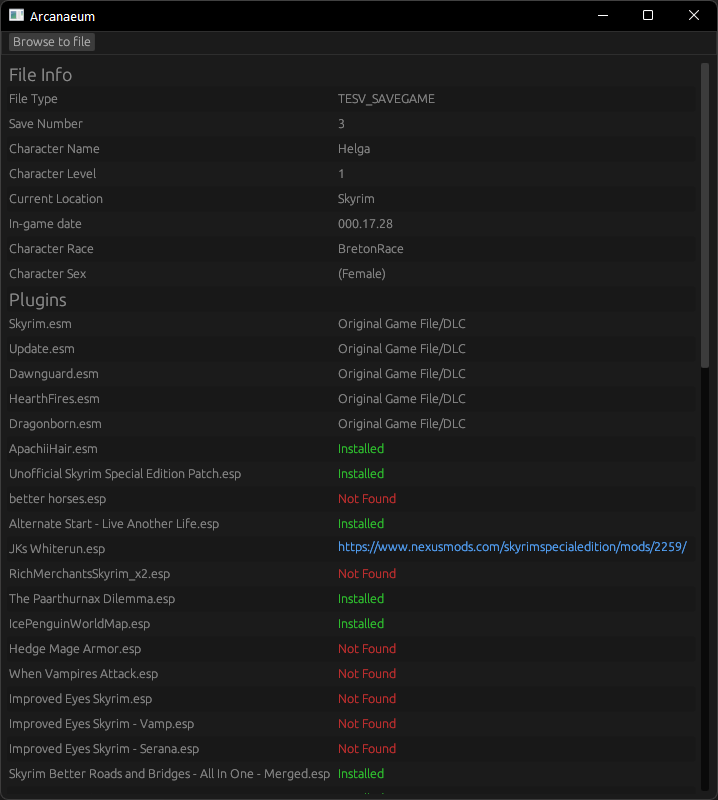
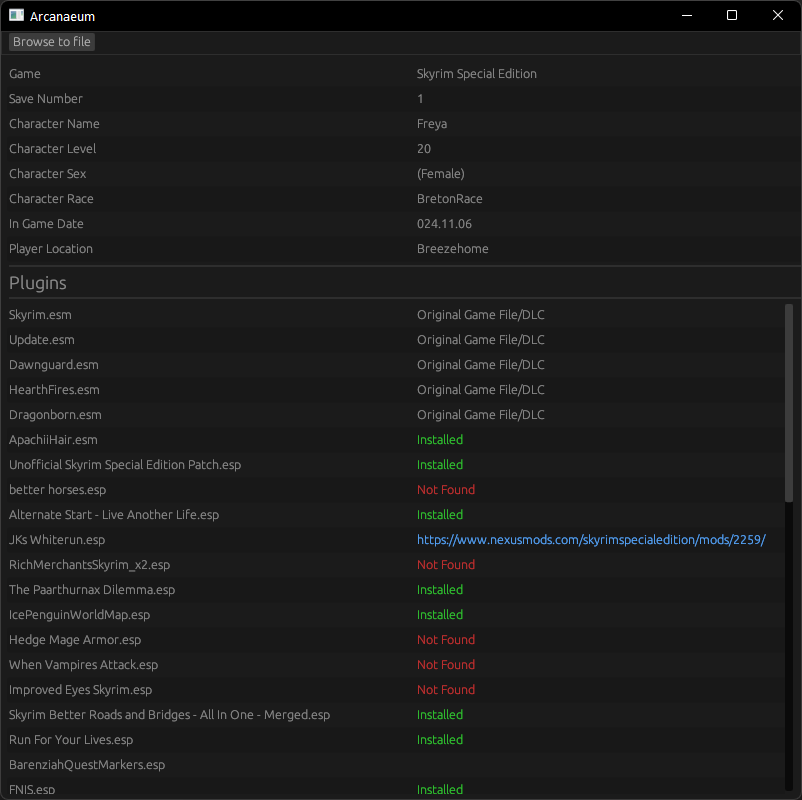
Update UI

diff --git a/src/app.rs b/src/app.rs
@@ -3,23 +3,27 @@ use std::collections::{HashMap, HashSet};
 use eframe::egui::Color32;
 use eframe::egui::{self};
 use eframe::epi;
+use egui::Ui;
 
-use crate::{
-    load_installed, load_mod_map, load_save_file,
-    mod_search::vortex_scanner::Plugin,
-    sktypes::{
-        self,
-        skui_value::{SkUIValue, UIValueType},
-        types::SkTypeReadable,
-    },
-};
+use crate::parser::SaveInfo;
+use crate::sktypes::skui_value::{SkUIValue, UIValueType};
+use crate::sktypes::types::SkTypeReadable;
+use crate::{load_installed, load_mod_map, sktypes};
+use crate::{load_save_file, mod_search::vortex_scanner::Plugin};
 
 pub struct AppState {
     pub file_path: String,
-    pub values: Vec<SkUIValue>,
+    pub save_info: Option<SaveInfo>,
     pub mod_map: HashMap<String, Plugin>,
     pub installed: HashSet<String>,
     pub error: Option<String>,
+    pub plugins: Option<Vec<SkUIValue>>,
+}
+
+fn label_line(ui: &mut Ui, name: &str, value: &str) {
+    ui.label(name);
+    ui.label(value);
+    ui.end_row();
 }
 
 impl epi::App for AppState {
@@ -36,20 +40,32 @@ impl epi::App for AppState {
                         self.file_path = String::from(path_buf.to_str().unwrap());
                         match load_save_file(self.file_path.to_string()) {
                             Ok(values) => {
-                                let (dts, is_se) = values;
-                                if is_se {
+                                if values.header.is_se {
                                     self.mod_map = load_mod_map("skyrimse");
                                     self.installed = load_installed("skyrimse")
                                 } else {
                                     self.mod_map = load_mod_map("skyrim");
                                     self.installed = load_installed("skyrim");
                                 }
-                                self.values = dts;
                                 self.error = None;
+
+                                let mut plugins = Vec::new();
+                                for plugin_name in &values.plugin_info.plugins {
+                                    let new_plugin = SkUIValue::new(
+                                        plugin_name.as_str(),
+                                        plugin_name.to_string(),
+                                        UIValueType::Plugin,
+                                    );
+                                    plugins.push(new_plugin);
+                                }
+
+                                self.plugins = Some(plugins);
+                                self.save_info = Some(values);
                             }
                             Err(e) => {
                                 self.error = Some(e.to_string());
-                                self.values = Vec::new();
+                                self.save_info = None;
+                                self.plugins = None;
                             }
                         };
                     }
@@ -61,58 +77,96 @@ impl epi::App for AppState {
             }
         });
         egui::CentralPanel::default().show(ctx, |ui| {
+            egui::CentralPanel::default().show(ctx, |_ui| {
+                egui::Grid::new("values")
+                    .striped(true)
+                    .min_row_height(22.)
+                    .min_col_width(400.0)
+                    .show(ui, |ui| {
+                        if let Some(si) = &self.save_info {
+                            if si.header.is_se {
+                                label_line(ui, "Game", "Skyrim Special Edition");
+                            } else {
+                                label_line(ui, "Game", "Skyrim");
+                            }
+
+                            label_line(
+                                ui,
+                                "Save Number",
+                                si.header.save_number.to_string().as_str(),
+                            );
+
+                            label_line(ui, "Character Name", si.header.player_name.as_str());
+                            label_line(
+                                ui,
+                                "Character Level",
+                                si.header.player_level.to_string().as_str(),
+                            );
+                            label_line(
+                                ui,
+                                "Character Sex",
+                                si.header.player_sex.to_string().as_str(),
+                            );
+                            label_line(
+                                ui,
+                                "Character Race",
+                                si.header.player_race_editor_id.as_str(),
+                            );
+                            label_line(ui, "In Game Date", si.header.game_date.as_str());
+                            label_line(ui, "Player Location", si.header.player_location.as_str());
+                        }
+                    });
+            });
+            if let Some(_plugins) = &self.plugins {
+                ui.separator();
+                ui.heading("Plugins");
+                ui.separator();
+            }
+
             egui::ScrollArea::vertical().show(ui, |ui| {
                 egui::Grid::new("values")
                     .striped(true)
                     .min_row_height(22.)
-                    .min_col_width(300.0)
+                    .min_col_width(400.0)
+                    .max_col_width(400.0)
                     .show(ui, |ui| {
-                        for value_entry in self.values.iter() {
-                            match value_entry.value_type {
-                                UIValueType::Plugin => {
-                                    ui.label(value_entry.get_value_string());
-                                    match value_entry.plugin_type {
-                                        sktypes::skui_value::PluginType::Native => {
-                                            ui.label("Original Game File/DLC");
-                                        }
-                                        sktypes::skui_value::PluginType::CreationClub => {
-                                            ui.label("Creation Club Mod");
-                                        }
-                                        sktypes::skui_value::PluginType::Mod => {
-                                            let key = &value_entry.get_value_string();
-                                            if self.installed.contains(key) {
-                                                ui.colored_label(
-                                                    Color32::from_rgb(50, 200, 50),
-                                                    "Installed",
-                                                );
-                                            } else if self.mod_map.contains_key(key) {
-                                                let value = self.mod_map.get(key).unwrap();
-
-                                                egui::Grid::new(key.as_str()).show(ui, |ui| {
-                                                    for l in value.urls.clone() {
-                                                        ui.hyperlink(l.as_str());
-                                                        ui.end_row();
-                                                    }
-                                                });
-                                            } else {
-                                                ui.colored_label(
-                                                    Color32::from_rgb(200, 50, 50),
-                                                    "Not Found",
-                                                );
-                                            }
-                                        }
-                                        sktypes::skui_value::PluginType::NotAPlugin => {}
+                        if let Some(plugins) = &self.plugins {
+                            for value_entry in plugins {
+                                ui.label(value_entry.get_name());
+                                match value_entry.plugin_type {
+                                    sktypes::skui_value::PluginType::Native => {
+                                        ui.label("Original Game File/DLC");
                                     }
+                                    sktypes::skui_value::PluginType::CreationClub => {
+                                        ui.label("Creation Club Mod");
+                                    }
+                                    sktypes::skui_value::PluginType::Mod => {
+                                        let key = &value_entry.get_value_string();
+                                        if self.installed.contains(key) {
+                                            ui.colored_label(
+                                                Color32::from_rgb(50, 200, 50),
+                                                "Installed",
+                                            );
+                                        } else if self.mod_map.contains_key(key) {
+                                            let value = self.mod_map.get(key).unwrap();
+
+                                            egui::ScrollArea::vertical().show(ui, |ui| {
+                                                for l in value.urls.clone() {
+                                                    ui.hyperlink(l.as_str());
+                                                    ui.end_row();
+                                                }
+                                            });
+                                        } else {
+                                            ui.colored_label(
+                                                Color32::from_rgb(200, 50, 50),
+                                                "Not Found",
+                                            );
+                                        }
+                                    }
+                                    sktypes::skui_value::PluginType::NotAPlugin => {}
                                 }
-                                UIValueType::Header => {
-                                    ui.heading(value_entry.get_name());
-                                }
-                                UIValueType::Value | UIValueType::U32(_) => {
-                                    ui.label(value_entry.get_name());
-                                    ui.label(value_entry.get_value_string());
-                                }
+                                ui.end_row();
                             }
-                            ui.end_row();
                         }
                     });
             });

diff --git a/src/main.rs b/src/main.rs
@@ -8,11 +8,10 @@ use eframe::egui;
 use mod_search::vortex_scanner::get_installed_from_all_profiles;
 use mod_search::vortex_scanner::get_masterlist_data;
 use mod_search::vortex_scanner::Plugin;
+use parser::SaveInfo;
 
 use crate::app::AppState;
 use crate::parser::parse;
-use crate::sktypes::skui_value::SkUIValue;
-use crate::sktypes::skui_value::UIValueType;
 
 mod app;
 mod mod_search;
@@ -37,7 +36,7 @@ fn load_installed(game: &str) -> HashSet<String> {
     installed
 }
 
-fn load_save_file(path: String) -> Result<(Vec<SkUIValue>, bool), Error> {
+fn load_save_file(path: String) -> Result<SaveInfo, Error> {
     tracing::info!("Loading file: {:?}", path);
     let mut file = std::fs::File::open(path)?;
 
@@ -45,69 +44,7 @@ fn load_save_file(path: String) -> Result<(Vec<SkUIValue>, bool), Error> {
     file.read_to_end(&mut buf)?;
 
     let parsed = parse(buf);
-
-    let mut items: Vec<SkUIValue> = Vec::new();
-    items.push(SkUIValue::new(
-        "File Info",
-        "".to_string(),
-        UIValueType::Header,
-    ));
-    // // Start Header Section
-    items.push(SkUIValue::new(
-        "File Type",
-        parsed.magic_string,
-        UIValueType::Value,
-    ));
-    items.push(SkUIValue::new(
-        "Save Number",
-        parsed.header.save_number.to_string(),
-        UIValueType::U32(parsed.header.save_number),
-    ));
-    items.push(SkUIValue::new(
-        "Character Name",
-        parsed.header.player_name,
-        UIValueType::Value,
-    ));
-    items.push(SkUIValue::new(
-        "Character Level",
-        parsed.header.player_level.to_string(),
-        UIValueType::Value,
-    ));
-    items.push(SkUIValue::new(
-        "Current Location",
-        parsed.header.player_location,
-        UIValueType::Value,
-    ));
-
-    items.push(SkUIValue::new(
-        "In-game date",
-        parsed.header.game_date,
-        UIValueType::Value,
-    ));
-    items.push(SkUIValue::new(
-        "Character Race",
-        parsed.header.player_race_editor_id,
-        UIValueType::Value,
-    ));
-
-    items.push(SkUIValue::new(
-        "Character Sex",
-        parsed.header.player_sex.to_string(),
-        UIValueType::Value,
-    ));
-
-    //End Header Section
-    items.push(SkUIValue::new(
-        "Plugins",
-        "".to_string(),
-        UIValueType::Header,
-    ));
-
-    for plugin in parsed.plugin_info.plugins {
-        items.push(SkUIValue::new("Plugin", plugin, UIValueType::Plugin));
-    }
-
-    Ok((items, parsed.header.is_se))
+    Ok(parsed)
 }
 
 fn main() {
@@ -116,10 +53,11 @@ fn main() {
 
     let app_state = AppState {
         file_path: String::from(""),
-        values: Vec::with_capacity(150),
+        save_info: None,
         mod_map: HashMap::new(),
         installed: HashSet::new(),
         error: None,
+        plugins: None,
     };
     let mut window_options = eframe::NativeOptions::default();
     window_options.initial_window_size = Some(egui::Vec2::new(800., 768.));

diff --git a/src/parser/header.rs b/src/parser/header.rs
@@ -2,7 +2,7 @@ use std::fmt::{self, Display};
 
 use super::utils::{read_f32, read_u16, read_u32, read_w_string};
 
-#[derive(Debug)]
+#[derive(Debug, Clone)]
 pub enum Sex {
     Male,
     Female,
@@ -21,12 +21,11 @@ impl From<u16> for Sex {
 
 impl Display for Sex {
     fn fmt(&self, f: &mut fmt::Formatter) -> fmt::Result {
-        // Use `self.number` to refer to each positional data point.
         write!(f, "({:?})", self)
     }
 }
 
-#[derive(Debug)]
+#[derive(Debug, Clone)]
 pub struct FileTime {
     pub dw_low: u32,
     pub dw_high: u32,
@@ -39,7 +38,7 @@ pub fn read_filetime(buf: &[u8], start: usize) -> (FileTime, usize) {
     (ft, cursor)
 }
 
-#[derive(Debug)]
+#[derive(Debug, Clone)]
 pub struct Header {
     pub version: u32,
     pub save_number: u32,

diff --git a/src/parser/plugin_info.rs b/src/parser/plugin_info.rs
@@ -1,6 +1,6 @@
 use super::utils::{read_u8, read_w_string};
 
-#[derive(Debug)]
+#[derive(Debug, Clone)]
 pub struct PluginInfo {
     pub plugin_count: u8,
     pub plugins: Vec<String>,

diff --git a/src/parser/mod.rs b/src/parser/mod.rs
@@ -13,6 +13,7 @@ mod header;
 mod plugin_info;
 mod utils;
 
+#[derive(Clone)]
 pub struct SaveInfo {
     pub magic_string: String,
     pub header_size: u32,

diff --git a/src/sktypes/skui_value.rs b/src/sktypes/skui_value.rs
@@ -29,9 +29,6 @@ pub enum PluginType {
 
 pub enum UIValueType {
     Plugin,
-    Header,
-    Value,
-    U32(u32)
 }
 
 pub struct SkUIValue {
